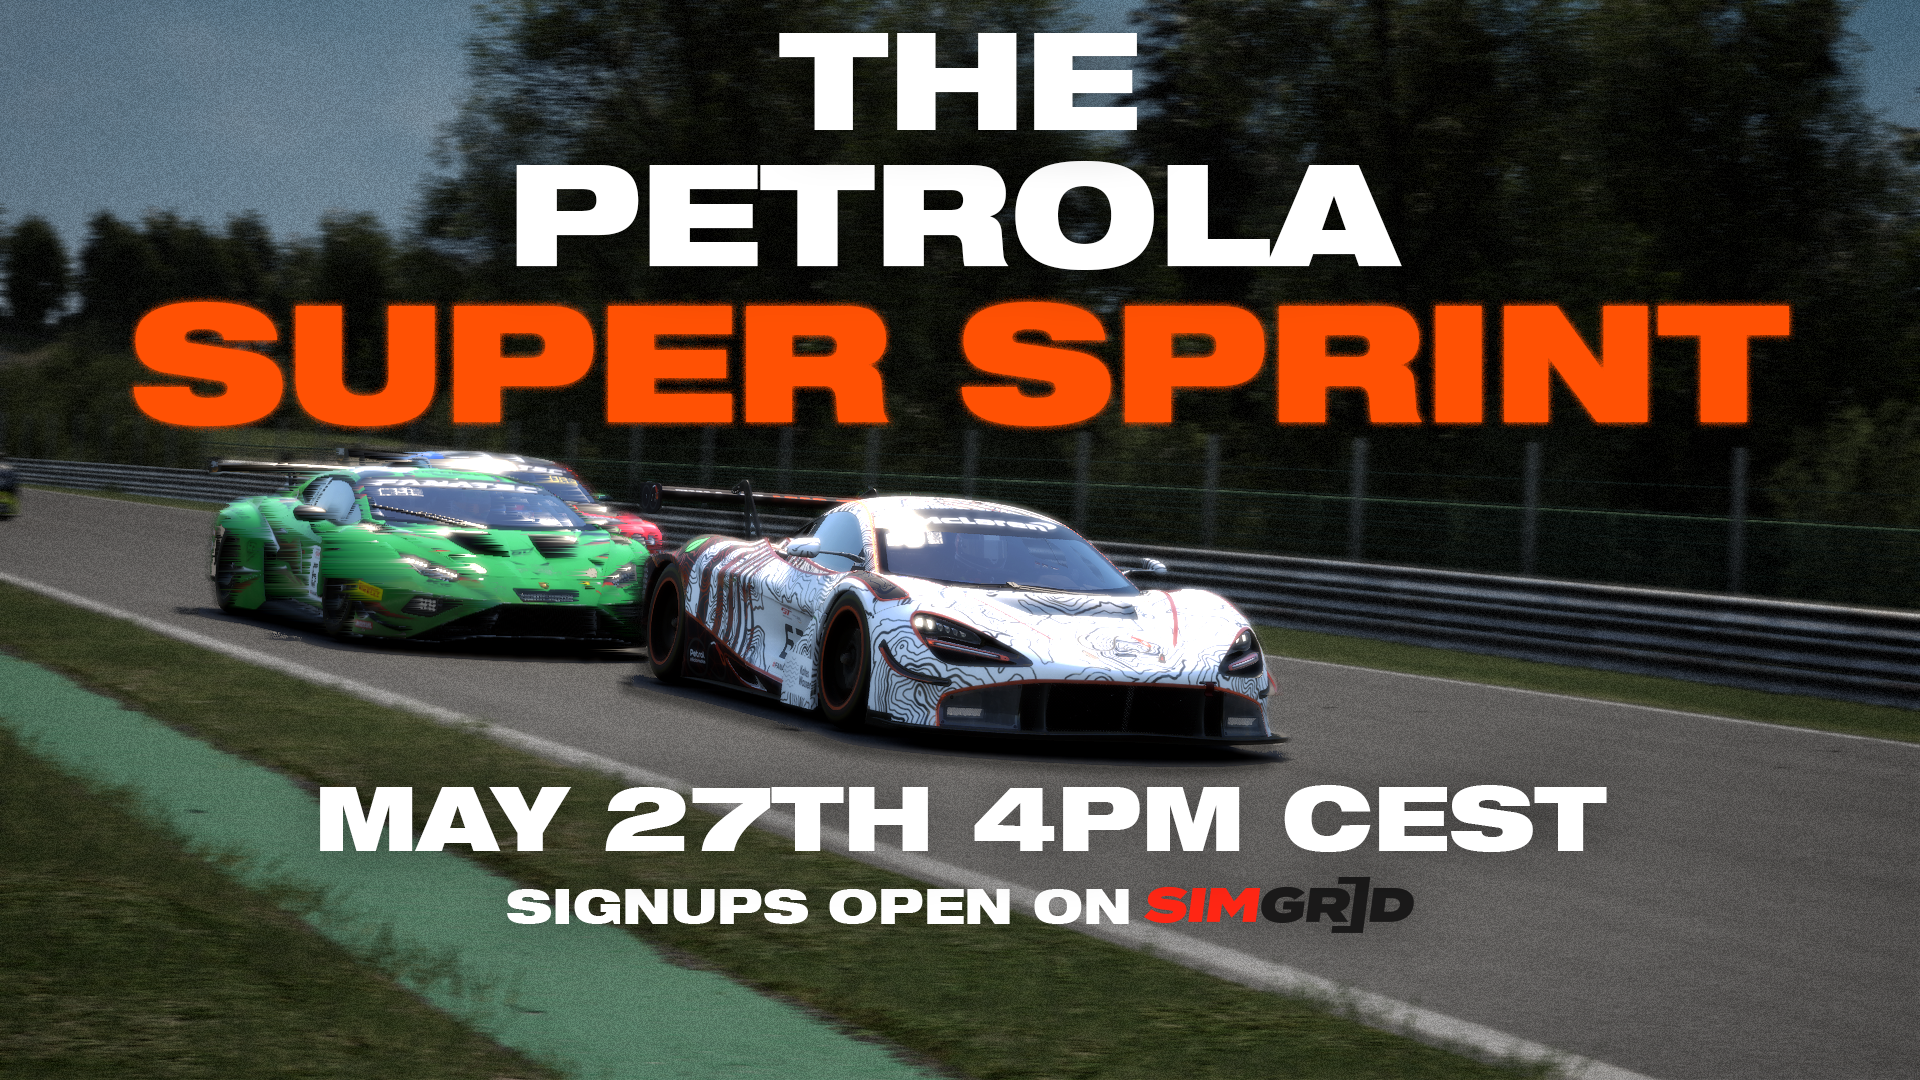
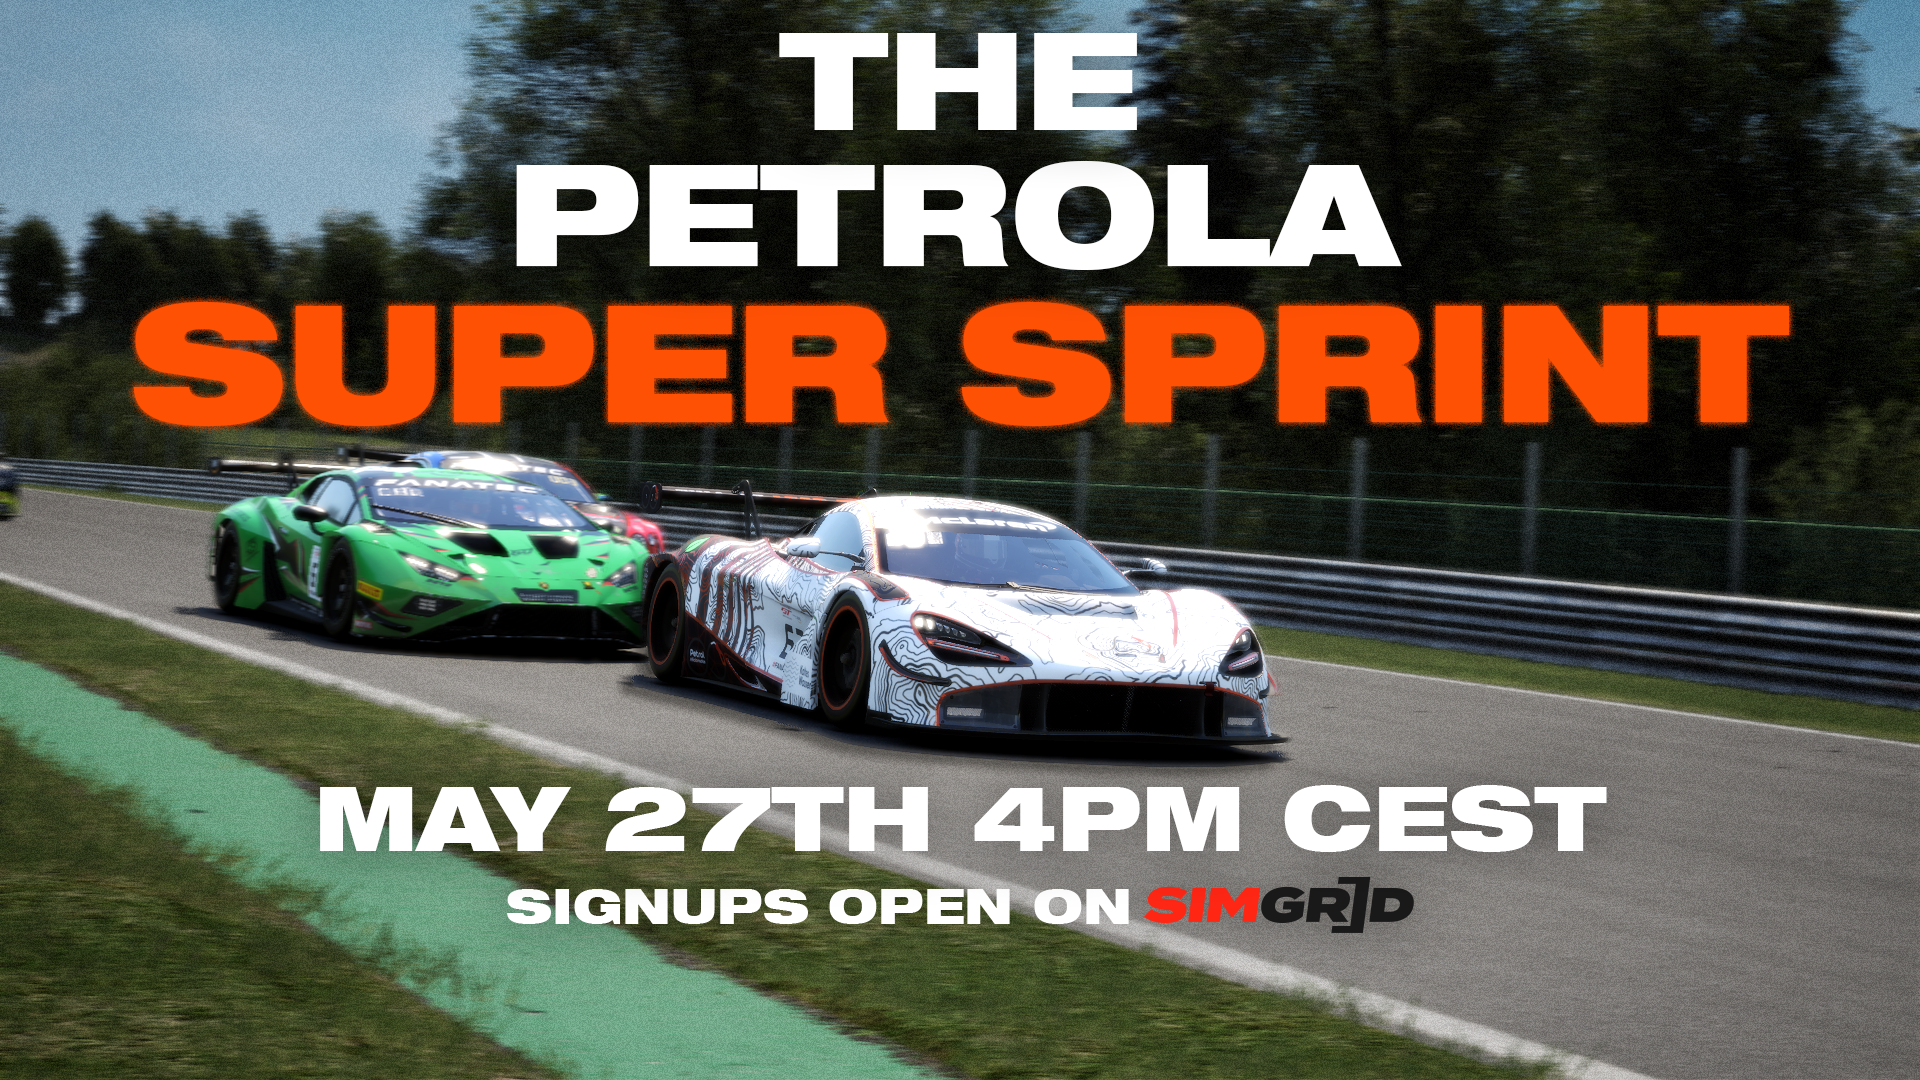
f

diff --git a/assets/css/main.css b/assets/css/main.css
@@ -2163,7 +2163,7 @@ input:-webkit-autofill:active {
 }
 
 .event-info .image{
-    height: 40rem;
+    height: 48rem;
     border-radius: var(--border-radius); 
     overflow: hidden;
 }
